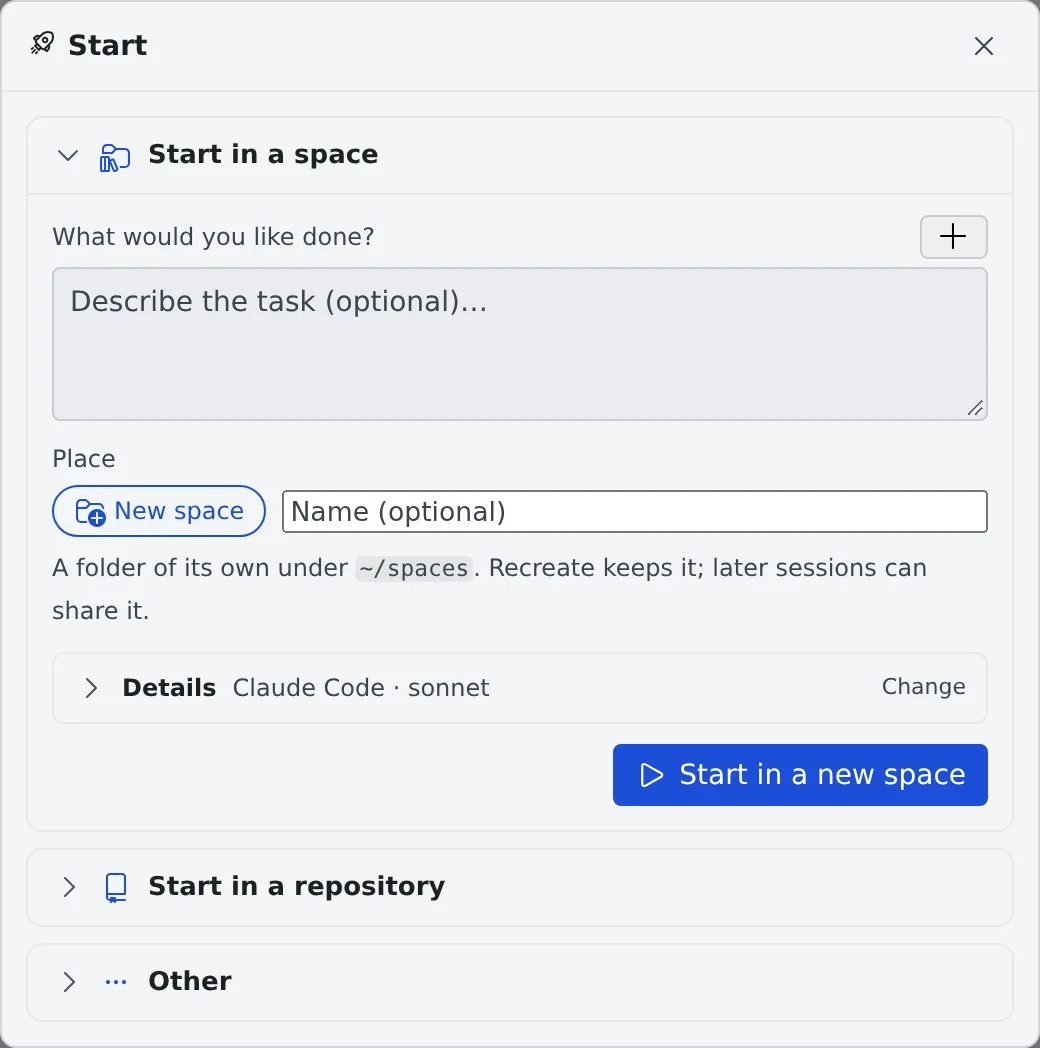
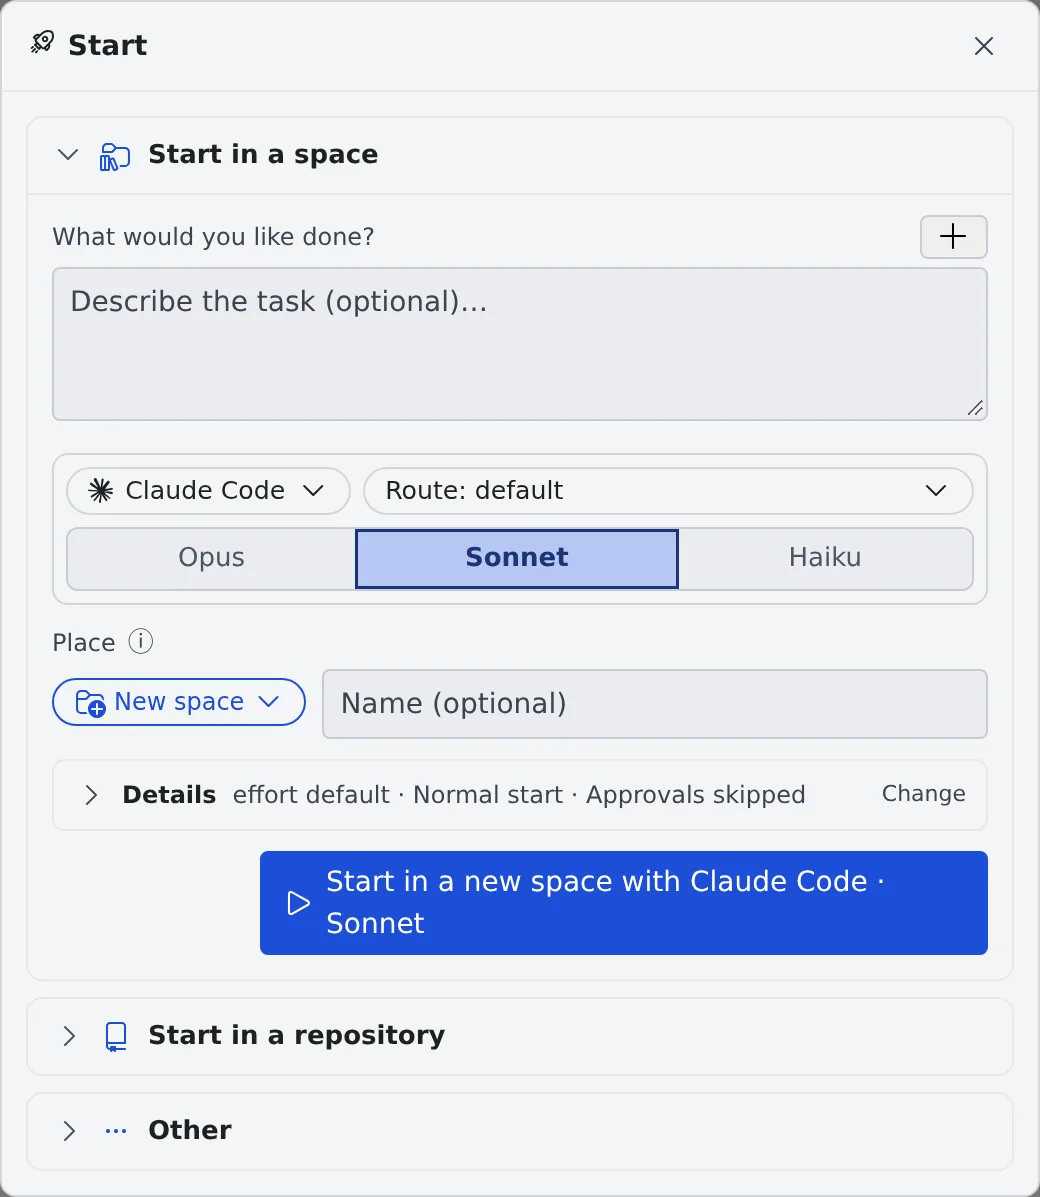
docs(guide): add Active view, Start a terminal shots and retake the Start hub (part 2 of 2)
Part 2 of at most 2 for #5188.

The Start hub shot (sessions-start) still showed the hub before the run-with
strip and the info-icon labels; the Active view and the Start a terminal
dialog had no screenshot although the text describes them.

- capture.mjs: new scenes active-view and terminals-new; stub fixtures
  (SHOT_ACTIVE_GUIDE) add a space, a session in it and an auto-run run so the
  Active view shows repository, space, Other and a folded Auto-run group, and
  the terminal dialog lists a space. Fictional data only.
- Retake sessions-start (en, ja) from a build of origin/main; add
  active-view and terminals-new (en, ja), light theme like the other assets.
- Embed them in fleet/overview, sessions/terminals; update the sessions-start
  alt text for the strip and button label (en, ja).

Verified: ran each scene in headless Chromium for en and ja and opened every
image; docs-check.py 0 errors; .githooks/pre-commit passes.

Refs #5188

diff --git a/guide/user/sessions/start.ja.md b/guide/user/sessions/start.ja.md
@@ -26,7 +26,7 @@ source_of_truth: "Console のワークスペース操作バーの「はじめる
 ワークスペース操作バーの「**＋ はじめる**」を押すと、「**はじめる**」の画面が開きます。3 つの区分があり、開いているのは
 いつも 1 つです。前回使った区分が開き、いちばん最初は「**スペースで始める**」が開きます。
 
-![「スペースで始める」を開いた「はじめる」の画面。「何をしてもらいますか？」の欄、場所の「新しいスペース」と名前（省略可）、畳まれた「詳細」、「新しいスペースで始める」ボタンがある。下に「リポジトリで始める」と「その他」が畳まれている](../../assets/sessions-start-ja-light.webp)
+![「スペースで始める」を開いた「はじめる」の画面。「何をしてもらいますか？」の欄、その下のエージェント・経路・モデルの帯、場所の「新しいスペース」と名前（省略可）、畳まれた「詳細」、「新しいスペースで Claude Code · Sonnet を始める」ボタンがある。下に「リポジトリで始める」と「その他」が畳まれている](../../assets/sessions-start-ja-light.webp)
 
 | 区分 | 中身 |
 |---|---|

diff --git a/guide/user/fleet/overview.ja.md b/guide/user/fleet/overview.ja.md
@@ -79,6 +79,8 @@ source_of_truth: "Console のセッション一覧ペイン"
 アクティビティバーの「**稼働中**」は、同じカードを左ペインに並べます。メイン領域のペインは使いません。
 いま動いているものと、それに付随する少数の停止中のセッションだけを並べるので、リポジトリの見出しは並べるセッションがあるあいだだけ出ます。
 
+![左ペインの「稼働中」ビュー。payments-api・platform-infra・webshop・スペース「旅行プラン」・「その他のセッション」の見出しの下にカードが並び、いちばん下に畳まれた「自動実行」の見出しがある。カードにはタイトルと状態、開いているセッションにはブランチとコンテキストのゲージが出ている](../../assets/active-view-ja-light.webp)
+
 | 見えるもの | 意味 |
 |---|---|
 | 見出し | リポジトリ、スペース、「その他のセッション」の順。並べるセッションがあるあいだだけ出ます |

diff --git a/guide/user/sessions/start.md b/guide/user/sessions/start.md
@@ -26,7 +26,7 @@ space are under **Spaces**, and the ones that belong to neither are under **Othe
 Press **＋ Start** on the workspace action bar to open the **Start** screen. It has three sections, and one of them is
 open at a time. Start opens on the section you used last; the very first time, that is **Start in a space**.
 
-![The Start screen with "Start in a space" open: the "What would you like done?" box, the "New space" place with an optional name, the folded Details and a "Start in a new space" button. "Start in a repository" and "Other" are folded below](../../assets/sessions-start-en-light.webp)
+![The Start screen with "Start in a space" open: the "What would you like done?" box, the agent, route and model strip under the box, the "New space" place with an optional name, the folded Details and a "Start in a new space with Claude Code · Sonnet" button. "Start in a repository" and "Other" are folded below](../../assets/sessions-start-en-light.webp)
 
 | Section | What it holds |
 |---|---|

diff --git a/guide/user/sessions/terminals.ja.md b/guide/user/sessions/terminals.ja.md
@@ -19,6 +19,8 @@ source_of_truth: "Console の「ターミナル」ビュー（アクティビテ
 | ビュー上部の「**+**」を押す | 「ターミナルを開始」が開き、ホーム・リポジトリ（ベースのクローン）・スペースのシェル、または登録済みマシンへの SSM セッションを開始できます。ワークツリーはここに出ません。各行の「ここでシェルを開く」を使ってください |
 | ビュー上部の SSM のアイコンを押す | 開始画面が SSM のホスト一覧で開きます |
 
+![「ターミナルを開始」ダイアログ。シェルの欄にホーム・リポジトリ・スペース「旅行プラン」、SSM の欄に登録済みホストと AWS 上のオンラインインスタンスが並ぶ](../../assets/terminals-new-ja-light.webp)
+
 シェルはメイン領域に開きます。左ペインの表示は変わりません。
 
 ## シェル：開いた場所ごと

diff --git a/guide/user/fleet/overview.md b/guide/user/fleet/overview.md
@@ -79,6 +79,8 @@ On a phone, open the left pane with **≡** to reach the activity bar.
 **Active** in the activity bar shows the same cards in the left pane, without using a pane of the main area.
 It lists what is going on now and the few stopped sessions that belong with it, so a repository appears only while it has a session to list.
 
+![The Active view in the left pane: cards under the headings payments-api, platform-infra, webshop, the space Trip planning and Other sessions, with a folded Auto-run heading at the bottom. A card shows the title, the state, and for the open session the branch and the context gauge](../../assets/active-view-en-light.webp)
+
 | What you see | What it means |
 |---|---|
 | Headings | Repositories first, then spaces, then "Other sessions". A heading appears only while it has a session to list |

diff --git a/guide/user/sessions/terminals.md b/guide/user/sessions/terminals.md
@@ -21,6 +21,8 @@ so a shell never sits among the conversations.
 
 Opening a shell opens it in the main area. It does not change what the left pane shows.
 
+![The "Start a terminal" dialog: a Shell part with Home, the repositories and the space Trip planning, and an SSM part with the registered hosts and the online instances on AWS](../../assets/terminals-new-en-light.webp)
+
 ## Shells: grouped by place
 
 | Group | Holds |
